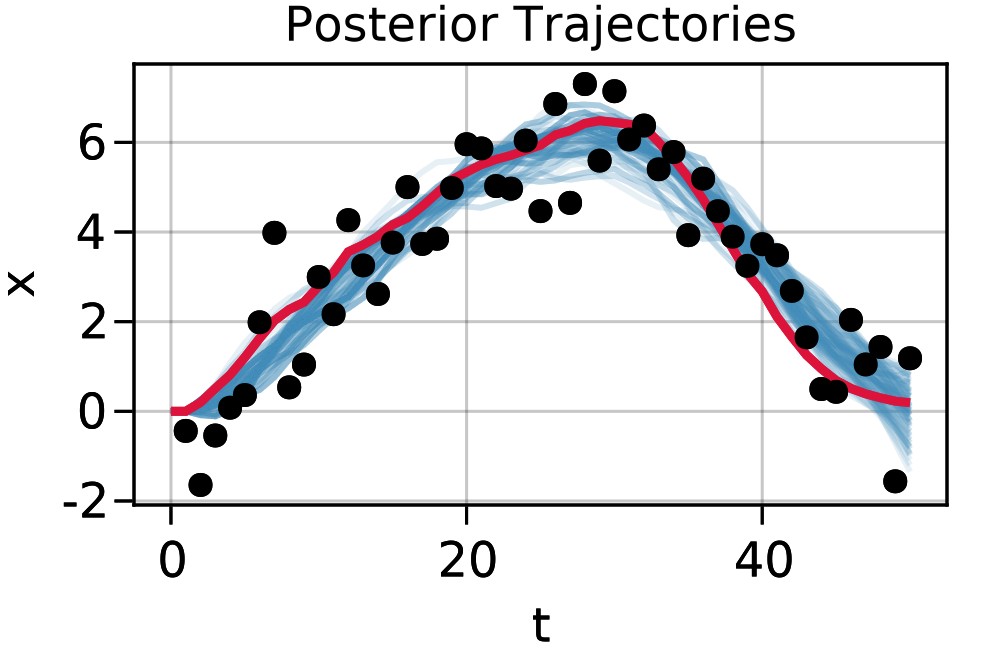
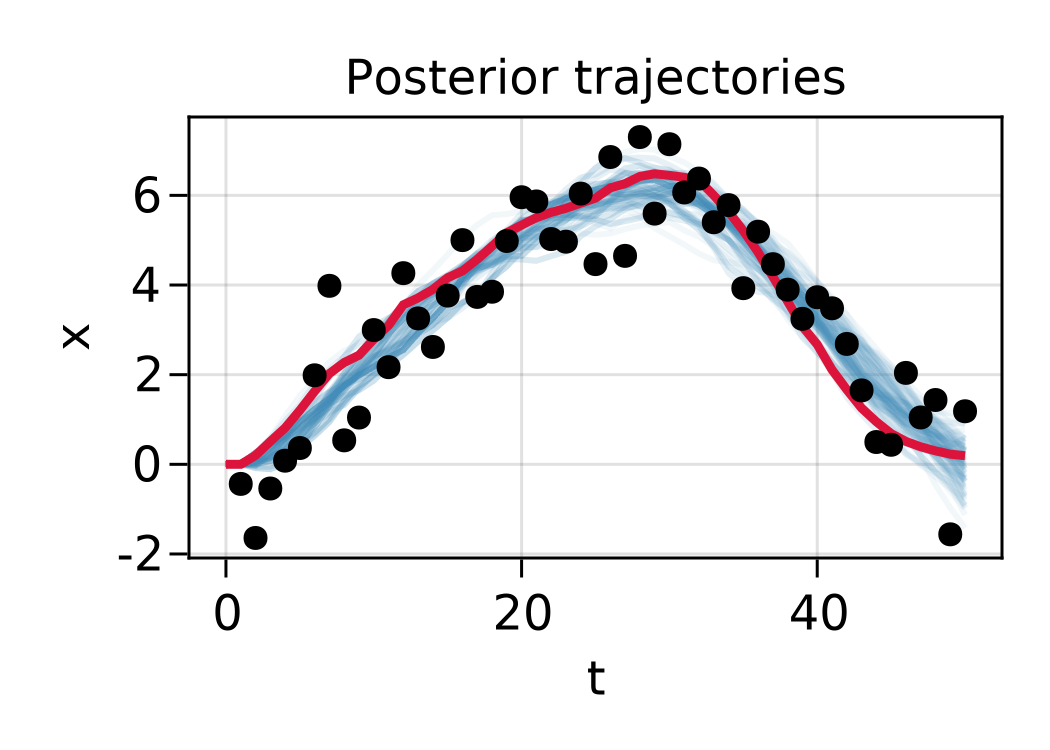
example: damped oscillator

diff --git a/TODO.md b/TODO.md
@@ -1,6 +1,7 @@
 # WeightedSampling.jl - TODOs
 
 - [ ] Weight transformers incorreclty implemented.
+- [ ] autoRW does not accept kwargs besides `diversity`.
 
 ## Convenience
 